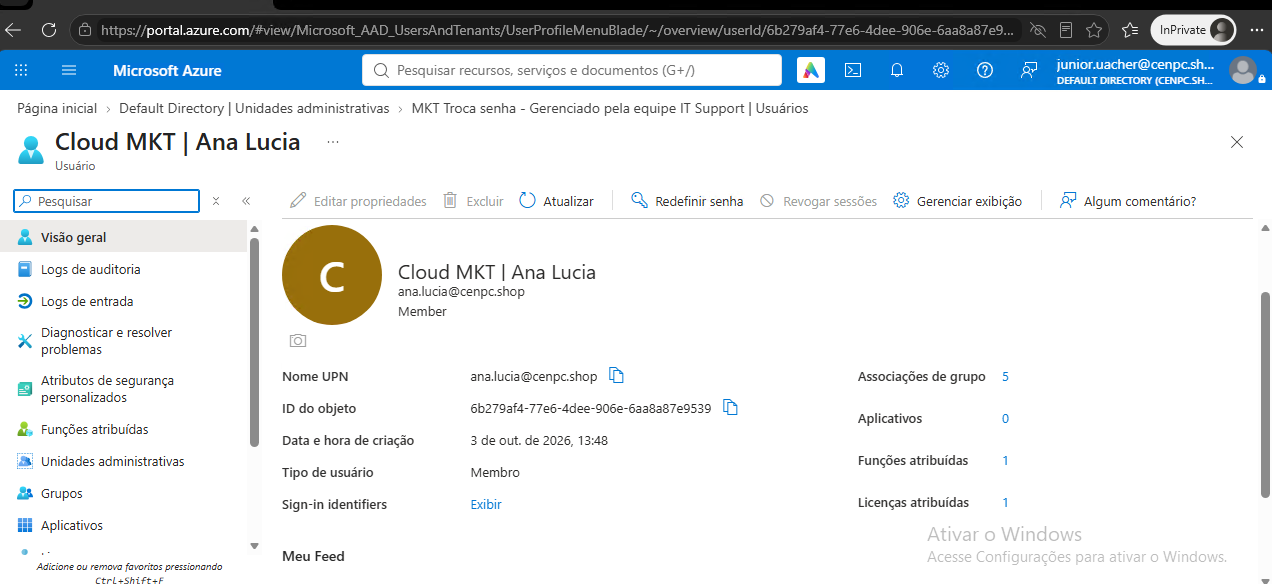
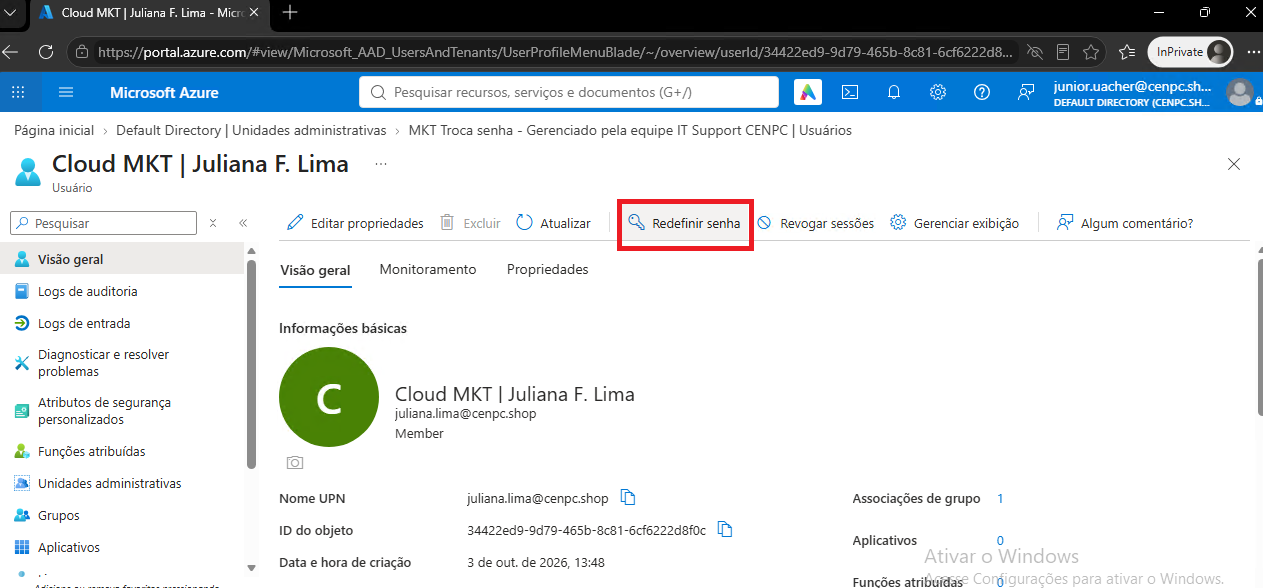
Update - 25/10/26 - 17:53

diff --git a/Azure/AZ-104 - Azure Administrator Associate/Request - Requisição/Entra-ID/Administrative Units/REQ-2026-1022-001/Delegação - Reset de Senha (Suporte Tecnico).md b/Azure/AZ-104 - Azure Administrator Associate/Request - Requisição/Entra-ID/Administrative Units/REQ-2026-1022-001/Delegação - Reset de Senha (Suporte Tecnico).md
@@ -138,6 +138,10 @@
 
     <img src="./img/23.png" width="700">
 
+* A senha foi redefinida com sucesso.
+
+    <img src="./img/24.png" width="700">
+
 # 5. 📸 Evidências
 
 ```
